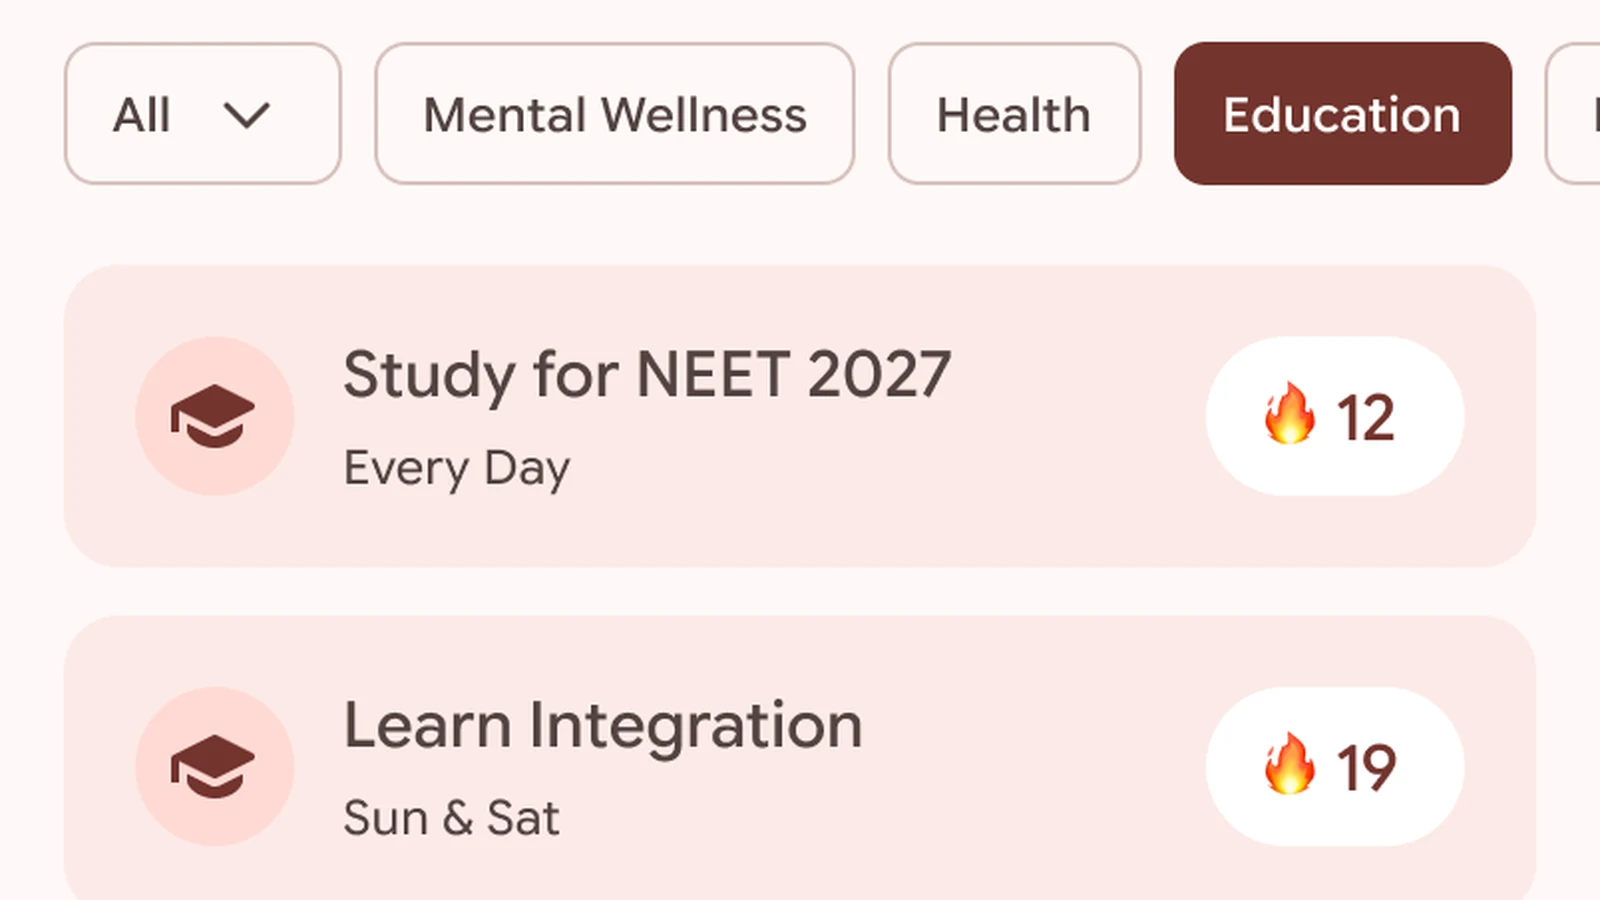
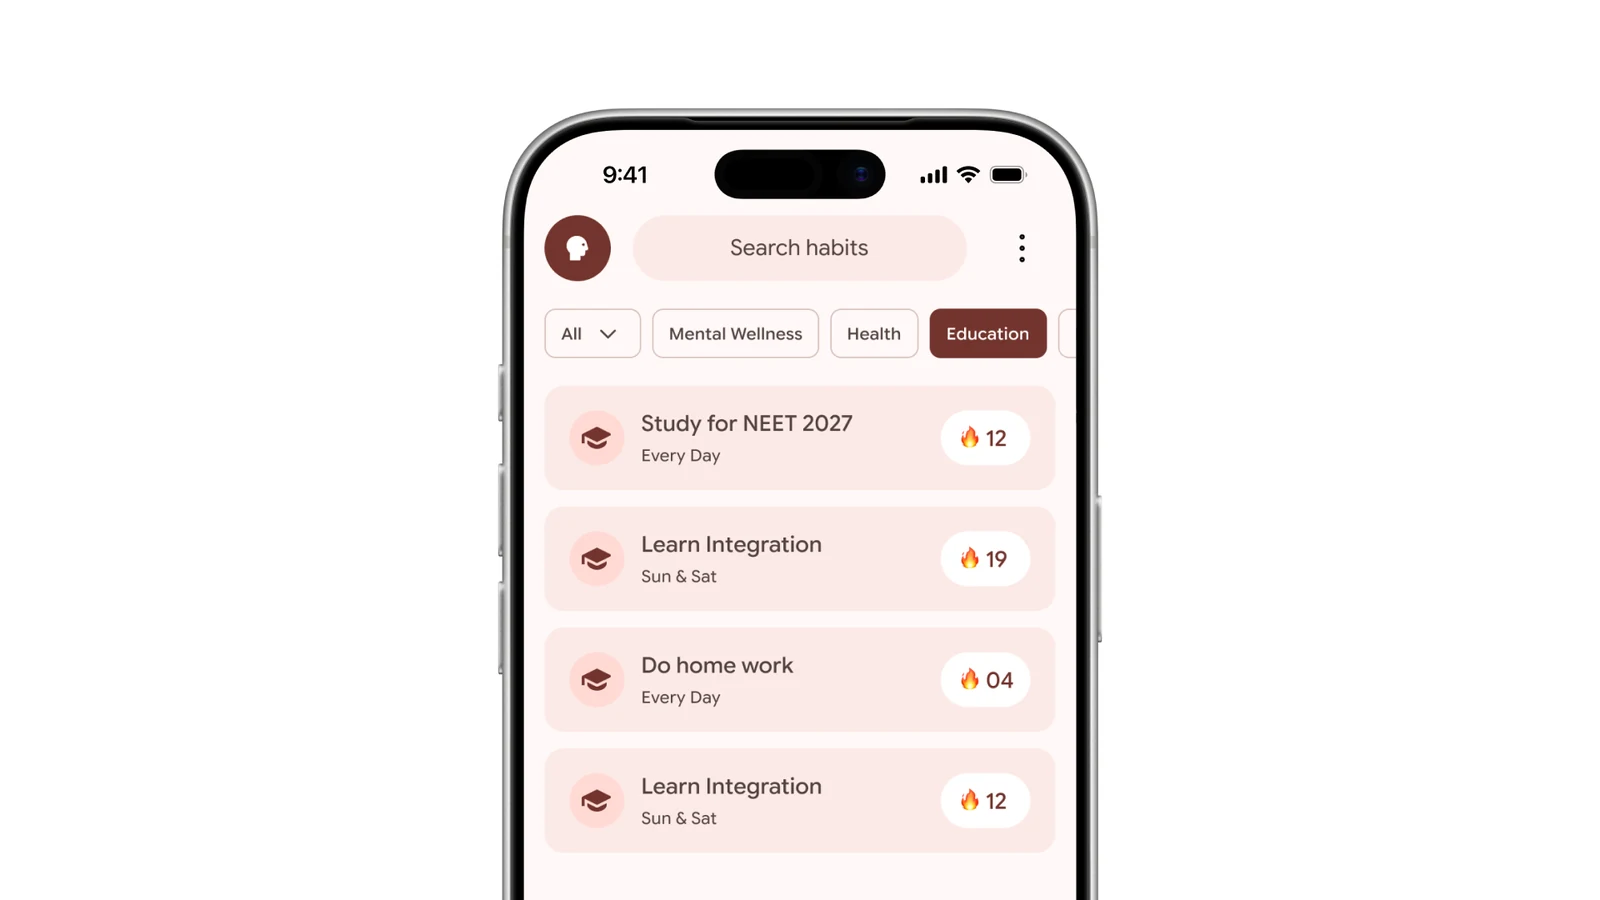
designs: new Route Planner renders, and Ember is a design not a build
The two supplied renders lead Route Planner now: the blue one becomes
the hero and the card thumbnail, and the dark one replaces the
side-by-side theme figure, which was making the same point with less of
it. Import, drive and after stay — the new pair does not cover those
screens, and dropping them would lose the middle of the day.

rp_figures.sh would have clobbered all three on its next run, since it
composed hero, theme and thumb from the captures, so it no longer builds
them and says so. The screens README says the same.

Ember says plainly that it is a design rather than a build, and its
thumbnail is the list close-up as supplied instead of a band cropped out
of the raw screen.

diff --git a/designs/route-planner.js b/designs/route-planner.js
@@ -8,8 +8,8 @@ BODY('route-planner', {
     {
       t: 'image',
       src: '/route-planner-assets/hero.webp',
-      alt: 'Five Route Planner screens: home, the route overview, driving, arrival and the end-of-day summary',
-      caption: 'The day, end to end.',
+      alt: 'Route Planner home, with today\'s route and progress, beside the stop card on the live map',
+      caption: 'The day so far, and the stop in front of you.',
     },
     { t: 'p', x: 'An import that only ever succeeds has not been designed, so this one arrives broken. The route exists only after you have read the middle screen.' },
     {
@@ -35,9 +35,9 @@ BODY('route-planner', {
     { t: 'p', x: 'The map, the route line and the accent survive the switch. Only the surfaces move.' },
     {
       t: 'image',
-      src: '/route-planner-assets/theme.webp',
-      alt: 'Home and navigation shown in light and dark side by side',
-      caption: 'The same two screens, light and dark.',
+      src: '/route-planner-assets/dark.webp',
+      alt: 'The same home screen and stop card in dark mode',
+      caption: 'The same pair, dark.',
     },
   ],
 });

diff --git a/designs/ember.js b/designs/ember.js
@@ -8,6 +8,7 @@
 
 BODY('ember', {
   blocks: [
+    { t: 'p', x: 'A design rather than a build — these are the screens as drawn, not captures of a running app.' },
     { t: 'p', x: 'Three screens carry the whole app: the list you open it for, the form that makes a habit, and the habit itself.' },
     {
       t: 'image',

diff --git a/route-planner-assets/screens/README.md b/route-planner-assets/screens/README.md
@@ -2,8 +2,11 @@
 
 Every screen used by the case study, captured 2× (1206 × 2622) from the running
 SwiftUI app on an iPhone 17 Pro simulator with the status bar frozen at 9:41.
-The 16:9 composites in `route-planner-assets/*.webp` are built from these files
-— the individual captures are the real deliverable.
+Most of the 16:9 composites in `route-planner-assets/*.webp` are built from
+these files — the individual captures are the real deliverable. The exceptions
+are `hero.webp`, `dark.webp` and `thumb.webp`, which are supplied renders on a
+blue ground rather than bezels on white; `rp_figures.sh` skips those three, and
+`theme.webp` is gone because `dark.webp` replaced it.
 
 Regenerate:
 
